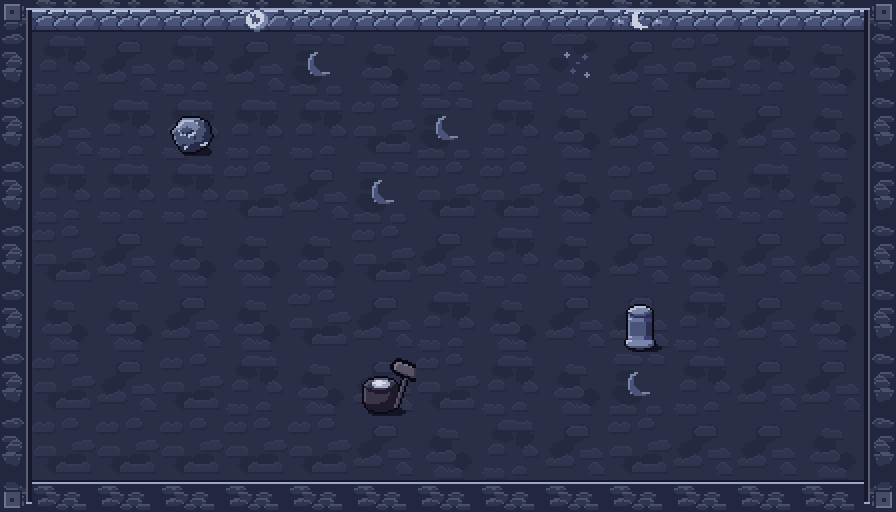
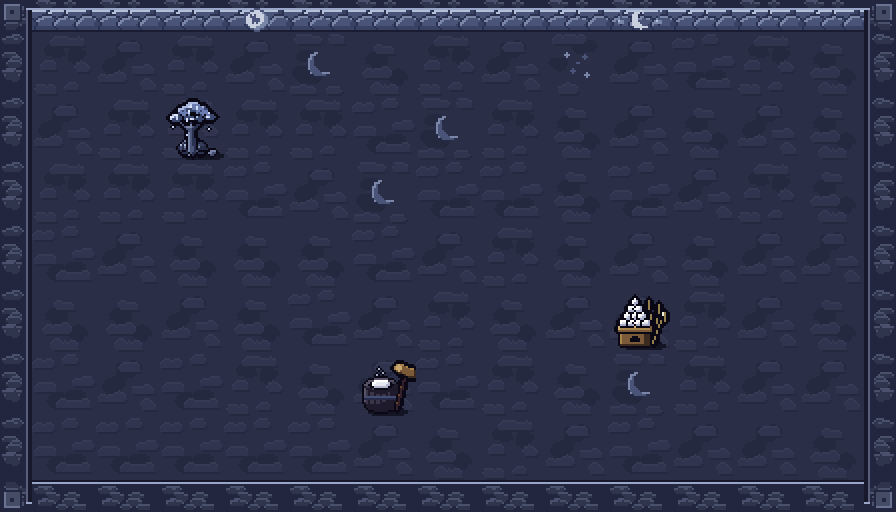
Runde 69: Requisiten Tsukiyomi (Tsuki no Katsura, Tsukimi-Sanbō mit Dango und Susuki, Usu und Kine) und Yomi no Oku (Ōkamuzumi-Pfirsichbaum) in Hi-Res; neue Lichter
Claude-Session: https://claude.ai/code/session_01KhgxT7UTZZ18pShxxFuE9n

Changed region(s): [[0.6875, 0.5625, 0.75, 0.6875], [0.1875, 0.1875, 0.25, 0.3125], [0.4062, 0.6875, 0.4688, 0.8125]]

diff --git a/art_src/fable/environment/props.py b/art_src/fable/environment/props.py
@@ -1027,30 +1027,91 @@ def rocks(name):
         out.append(fin(cv, P))
 
     elif name == 'tsukiyomi':
-        cv, rng, m = plain_boulder(0)                        # moon rock with craters
-        for (cx, cy, rx, ry) in ((13, 17, 3, 2), (20, 22, 2.4, 1.6), (11, 24, 1.8, 1.2)):
-            c = cv.E(cx, cy, rx, ry) & m
-            cv.fill(c, k[0])
-            cv.fill(c & sh(c, -1, -1), k[1])
-            cv.fill(sh(c, 1, 1) & ~c & m & (cv.Y > cy), k[3])
+        cv, rng, m = plain_boulder(0, rx=8, ry=3.5, by=29)  # Tsuki no Katsura: der silberne Baum auf dem Mond
+        trunk = (capsule(cv, 16, 27, 2, 15, 15, 1.1) | capsule(cv, 15.5, 18, .7, 9, 12, .45) | capsule(cv, 15.5, 17, .7, 22, 10.5, .45)
+                 | capsule(cv, 15, 15, .6, 14, 7, .4) | capsule(cv, 16.5, 27, .6, 21, 28, .4) | capsule(cv, 15, 27, .6, 10.5, 28.2, .4))
+        cv.fill(dil(trunk), K)
+        cv.form(trunk, SILVER[:3], 1, 1)
+        cv.hline([(16.6, 26), (16, 18)], SILVER[0])
+        crown = np.zeros_like(cv.m)
+        for (cx, cy, r) in ((7.5, 10.5, 2.6), (11.5, 7, 3), (16, 4.8, 3.2), (20.5, 6.8, 3), (24.5, 10, 2.6), (14, 10.5, 2.2), (19, 11, 2.2)):
+            crown |= cv.E(cx, cy, r, r * .75)
+        crown &= ~(cv.E(16, 13.5, 4, 2) & ~trunk)
+        cv.fill(dil(crown), K)
+        cv.form(crown, ('#3a4870', '#6a7cb0', '#a8b8e0'), 2, 1)
+        for i in range(18):                                  # herzförmige Katsura-Blätter, mondhell
+            x, y = 5 + rng.random() * 22, 2 + rng.random() * 10
+            if crown[int(y * cv.ss), int(x * cv.ss)]:
+                cv.hpx(x, y, '#e0e8ff'); cv.hpx(x + .5, y, '#e0e8ff'); cv.hpx(x + .25, y + .5, '#c8d4f4')
+        for (x, y) in ((6, 15), (24, 16), (13, 19)):         # fallende Blätter
+            cv.hpx(x, y, '#c8d4f4')
         out.append(fin(cv, P))
-        out.append(fin(pillar(1, SILVER, bands=WHITE), P))
-        cv, rng = new(2)                                     # usu mortar with mochi and mallet
+
+        cv, rng = new(1)                                     # Tsukimi: Sanbō mit Dango-Pyramide und Susuki-Gras
+        for (x0, y0, x1, y1) in ((22, 27, 20, 6), (23, 27, 25, 8), (22, 27, 27.5, 12)):
+            g = capsule(cv, x0, y0, .45, x1, y1, .3)
+            cv.fill(dil(g), K)
+            cv.fill(g, STRAW[2])
+            plume = capsule(cv, x1, y1, .9, x1 + (x1 - x0) * .15, y1 + 4.5, .5)
+            cv.fill(dil(plume), K)
+            cv.form(plume, (STRAW[2], '#d8ccb0', '#f0ecdc'), 1, 1)
+        box(cv, ('#3a2a20', '#7a5a38', '#a8844c', '#d0b070'), 6, 21, 20, 28, top=2)
+        win = cv.E(13, 25.5, 2.2, 1.8) & (cv.Y <= 26.5)        # Fenster im Sanbō-Sockel
+        cv.fill(win, K)
+        tray = cv.R(5, 19, 21, 21)
+        cv.fill(dil(tray), K)
+        cv.form(tray, ('#7a5a38', '#a8844c', '#d0b070'), 1, 1)
+        for (row, n) in ((17, 4), (13.5, 3), (10, 2), (6.5, 1)):
+            for i in range(n):
+                cx = 13 - (n - 1) * 1.85 + i * 3.7
+                d = cv.E(cx, row, 1.9, 1.75)
+                cv.fill(dil(d), K)
+                cv.form(d, ('#a8acc8', '#e0e0ea', '#ffffff'), 1, 1)
+        out.append(fin(cv, P))
+
+        cv, rng = new(2)                                     # Usu und Kine des Mondhasen, Mochi dampft noch
         w = ('#1e1a2c', '#3a3448', '#585268', '#7a7488')
         m, t = cyl(cv, w, 14, 28, 8, 12, top=(w[0], w[1], w[2]))
-        cv.fill(cv.E(14, 15.5, 5, 2.2), WHITE[2])
-        cv.fill(cv.E(13, 15, 3, 1.2), WHITE[3])
-        cv.line([(21, 27), (27, 9)], w[2])
-        cv.line([(22, 27), (28, 9)], w[1])
-        hm = capsule(cv, 23, 7, 2.6, 30, 10, 2.6)
+        side = m & ~t
+        for x in range(8, 21, 3):                            # Holzmaserung und Eisenband
+            cv.fill(side & (cv.X >= x) & (cv.X < x + .5) & (cv.Y > 19), w[0])
+        band = side & (cv.Y >= 22) & (cv.Y < 23.5)
+        cv.fill(band, IRON[2]); cv.fill(band & (cv.Y >= 23), IRON[1])
+        cv.fill(cv.E(14, 16, 6, 2.6), K)
+        mochi = cv.E(14, 15.3, 4.8, 2.2)
+        cv.form(mochi, ('#b0b4cc', '#e4e6f0', '#ffffff'), 1, 1)
+        cv.hpx(12, 14.5, '#ffffff')
+        for (x, y) in ((12, 11), (15, 9.5), (13, 8)):        # Dampf
+            cv.hpx(x, y, WHITE[2])
+        kine = capsule(cv, 22, 27.5, .7, 26.5, 10, .7)
+        cv.fill(dil(kine), K)
+        cv.form(kine, WOOD[1:], 1, 1)
+        hm = capsule(cv, 23, 7.5, 2.4, 30, 10.5, 2.4)
         cv.fill(dil(hm), K)
-        cv.form(hm, (w[1], w[2], w[3]), 1, 1)
+        cv.form(hm, ('#3a2a20', '#7a5a38', '#a8844c'), 1, 1)
+        cv.fill(cv.E(23, 7.5, 1.6, 1.6) & hm, '#c8a870')     # Hirnholz
         out.append(fin(cv, P))
 
     elif name == 'yomi_oku':
-        cv = pillar(0, VIOLET, bands=(GOLD[0], mix(GOLD[1], VIOLET[1], .5), GOLD[1]), broken=True)
-        cv.line([(13, 18), (12, 22), (14, 26)], VIOLET[0])          # Lack platzt ab
-        cv.grid(13, 6, "..a..\n.ab..\n.abb.\nabcba\n.bcb.", dict(a=ONIBI[1], b=ONIBI[2], c=ONIBI[3]))
+        cv, rng = new(0)                                     # Ōkamuzumi: der Pfirsichbaum, dessen Früchte die Shikome vertrieben
+        root = cv.E(16, 27.5, 7, 2) & (cv.Y <= 28.5)
+        cv.fill(dil(root), K)
+        cv.form(root, VIOLET[:3], 1, 1)
+        tr = (capsule(cv, 16, 27, 2, 14.5, 17, 1.2) | capsule(cv, 14.5, 18, .9, 8, 10, .5) | capsule(cv, 15, 17, .9, 22, 9, .5)
+              | capsule(cv, 14.6, 17, .7, 15.5, 6, .4) | capsule(cv, 10, 12.5, .4, 6, 13, .3) | capsule(cv, 20, 11.5, .4, 25, 13.5, .3)
+              | capsule(cv, 15.4, 9, .35, 12, 4.5, .25) | capsule(cv, 21, 10, .35, 23.5, 5, .25))
+        cv.fill(dil(tr), K)
+        cv.form(tr, ('#140a14', '#2a1824', '#46303a'), 1, 1)
+        for (x, y) in ((9, 10), (12.5, 5), (22.5, 6), (24.5, 13), (17, 7.5)):   # verdorrte Blüten
+            cv.hpx(x, y, '#8a5a78'); cv.hpx(x + .5, y + .5, '#5a3a58')
+        for (x, y) in ((7, 14.5), (18, 10.5), (23, 15)):                         # drei leuchtende Götterpfirsiche
+            p = cv.E(x, y, 1.9, 1.8)
+            cv.fill(dil(p), K)
+            cv.form(p, ('#a0405a', '#f08a8a', '#ffd0b8'), 1, 1)
+            cv.hline([(x, y - 1.6), (x + .3, y + 1)], '#c05a6a')
+            cv.hpx(x + 1, y - 2, '#3a6a3a'); cv.hpx(x + 1.5, y - 2.2, '#5a8a4a')
+        for (x, y) in ((11, 22), (21, 24)):                  # Totenfeuer am Wurzelwerk
+            cv.grid(x, y, ".a\nab", dict(a=ONIBI[1], b=ONIBI[2]))
         out.append(fin(cv, P))
         cv, rng = new(1)                                     # Yomotsu-hegui: Herd der Unterwelt mit Eisentopf
         clay = ('#1e1018', '#3a2228', '#56362e', '#74503c')

diff --git a/yokai/gfx.py b/yokai/gfx.py
@@ -703,7 +703,8 @@ PROP_LIGHT = {
     ('shinkai', 2): (16, 14, SEA, 52),                     # versunkene Tōrō
     ('enma_cho', 0): (15, 7, FIRE, 56),                    # Kohlebecken
     ('enma_cho', 1): (16, 12, (255, 120, 90), 28),         # Jōhari-Spiegel
-    ('yomi_oku', 0): (15, 8, ONIBI_C, 44),                 # Säule mit Totenfeuer
+    ('yomi_oku', 0): (16, 12, (255, 170, 150), 36),        # Götterpfirsiche am Ōkamuzumi
+    ('tsukiyomi', 0): (16, 8, (200, 215, 255), 30),        # Tsuki no Katsura
     ('yomi_oku', 1): (16, 26, ONIBI_C, 44),                # Herd der Unterwelt
 }
 # Leuchtende Wanddekos: (Biom, Index) -> (x, y im 32x16-Stück, Farbe, Lichtradius)

diff --git a/CHANGELOG.md b/CHANGELOG.md
@@ -90,6 +90,7 @@
 - Runde 66 – **Gefolge, Kreisschilde und Aura mit Item-Wirkungen:** Das Gefolge (Familiars) wirft mit allen Wurf-Eigenschaften deiner Items (Feuer, Gift, Frost, Kettenblitz, Abprall, Durchschlag …) statt nur zielsuchend; Kreisschilde setzen Feuer, Gift, Frost, Kettenblitz und Rückstoß, die Aura brennt, vergiftet und verlangsamt. `tools/waffentest.py` prüft auch das
 - Runde 67 – **Alle Geschosse tragen Feuer, Gift und Frost:** Auch die Würfe aktiver Items und Item-Fähigkeiten (Rattenschwarm, Papierdiener, Rückstrahlen, Wurfsterne, Federn, Splitter …) übernehmen jetzt Brand, Gift und Verlangsamung deiner Items. Kettenblitz bleibt bewusst beim Talisman, damit keine Kettenreaktionen entstehen
 - Runde 68 – Requisiten am Hof des Enma neu in Hi-Res: bronzenes Kohlebecken auf Krallenfüßen mit Oni-Fratze und Funkenflug, der **Jōhari no Kagami** (Enmas Spiegel, der alle Taten der Toten zeigt) im Flammenkranz – er glimmt rot –, und der **Nintōjō**, Enmas Stab mit den Köpfen Miru-me und Kagu-hana, die jede Sünde sehen und riechen
+- Runde 69 – Requisiten Teil 6: Im Mondpalast steht jetzt **Tsuki no Katsura**, der silberne Baum auf dem Mond, mit mondhellen Herzblättern; daneben ein Sanbō mit Tsukimi-Dango-Pyramide und Susuki-Gras sowie Usu und Kine des Mondhasen mit dampfendem Mochi. Im Totenpalast ersetzt der **Ōkamuzumi**-Pfirsichbaum die Lacksäule – mit drei leuchtenden Götterpfirsichen, wie sie Izanagi den Yomotsu-shikome entgegenwarf. Baum und Pfirsiche werfen Licht
 
 ## 1.4.0 – „Hyakki-Update“ (enthält 1.3 „Kapitel-Update“)
 
